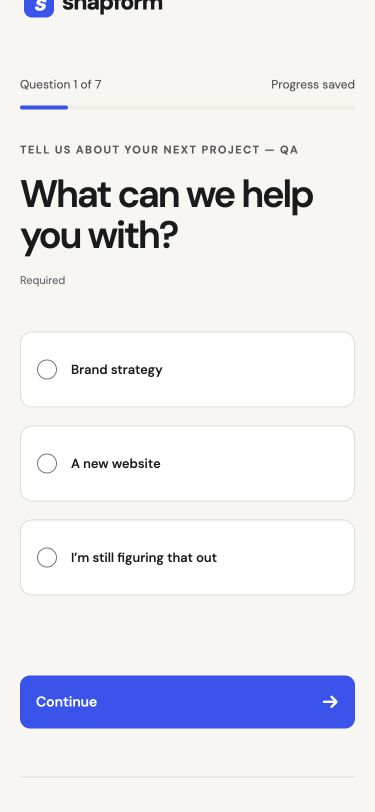
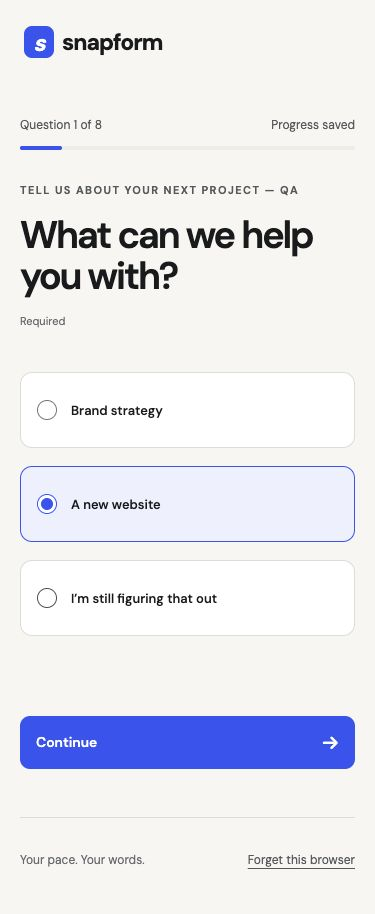
fix(intake): resolve saved-state conflicts with explicit confirmation

diff --git a/apps/web/src/features/intake/Collector.tsx b/apps/web/src/features/intake/Collector.tsx
@@ -12,7 +12,9 @@ export function Collector({ publicId }: { publicId: string }) {
     [stepId, setStepId] = useState(''),
     [review, setReview] = useState(false),
     [touched, setTouched] = useState<Set<string>>(new Set()),
-    [forget, setForget] = useState(false);
+    [confirmation, setConfirmation] = useState<'forget' | 'reload' | null>(
+      null,
+    );
   const heading = useRef<HTMLHeadingElement>(null),
     dialog = useRef<HTMLDialogElement>(null);
   const session = intake.progress?.record.session;
@@ -46,9 +48,9 @@ export function Collector({ publicId }: { publicId: string }) {
     }
   }, [status]);
   useEffect(() => {
-    if (forget) dialog.current?.showModal();
+    if (confirmation) dialog.current?.showModal();
     else dialog.current?.close();
-  }, [forget]);
+  }, [confirmation]);
   useEffect(() => {
     setReview(false);
     setStepId('');
@@ -135,6 +137,15 @@ export function Collector({ publicId }: { publicId: string }) {
                     Retry loading
                   </button>
                 )}
+                {['conflict', 'blocked'].includes(status || '') && !review && (
+                  <button
+                    type="button"
+                    className="intake-text-button"
+                    onClick={() => setReview(true)}
+                  >
+                    Review my answers
+                  </button>
+                )}
                 {['offline', 'conflict', 'blocked'].includes(status || '') && (
                   <button
                     type="button"
@@ -142,7 +153,9 @@ export function Collector({ publicId }: { publicId: string }) {
                     onClick={() =>
                       status === 'offline'
                         ? void intake.controller?.flush()
-                        : intake.retry()
+                        : status === 'conflict'
+                          ? setConfirmation('reload')
+                          : intake.retry()
                     }
                   >
                     {status === 'offline'
@@ -277,8 +290,9 @@ export function Collector({ publicId }: { publicId: string }) {
                     )}
                     {review && (
                       <p className="intake-description">
-                        Make any final changes below. Only the answers relevant
-                        to your path will be sent.
+                        {frozen
+                          ? 'Your retained answers are read-only. Resolve the saved-state issue before editing.'
+                          : 'Make any final changes below. Only answers relevant to your path will be sent.'}
                       </p>
                     )}
                     <fieldset
@@ -373,7 +387,7 @@ export function Collector({ publicId }: { publicId: string }) {
                   type="button"
                   className="intake-text-button"
                   disabled={intake.busy || status === 'saving'}
-                  onClick={() => setForget(true)}
+                  onClick={() => setConfirmation('forget')}
                 >
                   Forget this browser
                 </button>
@@ -385,31 +399,37 @@ export function Collector({ publicId }: { publicId: string }) {
       <dialog
         ref={dialog}
         className="intake-dialog"
-        onCancel={() => setForget(false)}
+        onCancel={() => setConfirmation(null)}
       >
-        <h2>Forget this browser’s copy?</h2>
+        <h2>
+          {confirmation === 'reload'
+            ? 'Use the saved response?'
+            : 'Forget this browser’s copy?'}
+        </h2>
         <p>
-          This removes recovery from this browser. It does not delete a response
-          already sent. Incomplete server progress remains for its recovery
-          period.
+          {confirmation === 'reload'
+            ? 'This replaces unsent answers in this browser with the saved response. Cancel to keep your browser’s answers.'
+            : 'This removes recovery from this browser. It does not delete answers already saved for this form.'}
         </p>
         <div className="intake-actions">
           <button
             type="button"
             className="button intake-secondary"
-            onClick={() => setForget(false)}
+            onClick={() => setConfirmation(null)}
           >
-            Keep it
+            {confirmation === 'reload' ? 'Keep my answers' : 'Keep it'}
           </button>
           <button
             type="button"
             className="button primary"
             onClick={() => {
-              setForget(false);
-              void intake.forget();
+              const action = confirmation;
+              setConfirmation(null);
+              if (action === 'reload') intake.useSaved();
+              else void intake.forget();
             }}
           >
-            Forget copy
+            {confirmation === 'reload' ? 'Use saved response' : 'Forget copy'}
           </button>
         </div>
       </dialog>

diff --git a/apps/web/src/features/intake/use-intake.ts b/apps/web/src/features/intake/use-intake.ts
@@ -1,3 +1,4 @@
+import { reconcileRecovery } from './reconcile';
 import { useEffect, useRef, useState } from 'react';
 import { useQueryClient } from '@tanstack/react-query';
 import type { PublicForm } from '@snapform/contracts/public-form';
@@ -27,6 +28,7 @@ export function useIntake(publicId: string) {
     [reload, setReload] = useState(0);
   const controller = useRef<IntakeProgress | null>(null);
   const lifecycle = useRef<Promise<unknown>>(Promise.resolve());
+  const replaceSaved = useRef(false);
   const actions = useRef<{
     start: ((token: string) => Promise<void>) | null;
     forget: (() => Promise<void>) | null;
@@ -74,6 +76,7 @@ export function useIntake(publicId: string) {
           await controller.current?.close();
           controller.current = null;
           await removeRecovery(publicId);
+          replaceSaved.current = false;
           if (active) setReload((value) => value + 1);
         } catch {
           if (active)
@@ -100,27 +103,21 @@ export function useIntake(publicId: string) {
           try {
             const session = await readIntakeRequest(publicId, record.identity);
             if (!active) return;
-            if (
-              record.session &&
-              record.session.versionId !== session.versionId
-            )
-              throw new Error('Saved form version changed.');
-            const local =
-              record.session && session.status === 'collecting'
-                ? { ...record, expiresAt: Date.parse(session.expiresAt) }
-                : {
-                    ...record,
-                    expiresAt: Date.parse(session.expiresAt),
-                    session,
-                    pending: null,
-                  };
-            const next = attach(local, session.answers);
-            if (
-              record.session &&
-              !record.pending &&
-              record.session.revision !== session.revision &&
-              session.status === 'collecting'
-            ) {
+            const recovery = reconcileRecovery(
+              record,
+              session,
+              replaceSaved.current,
+            );
+            if (replaceSaved.current) {
+              try {
+                await putRecovery(recovery.record);
+              } catch {
+                setStorageError(true);
+              }
+              replaceSaved.current = false;
+            }
+            const next = attach(recovery.record, session.answers);
+            if (recovery.conflict) {
               next.state.status = 'conflict';
               next.state.message =
                 'The saved response has newer changes. Your unsent answers remain here.';
@@ -282,5 +279,9 @@ export function useIntake(publicId: string) {
     start: (token: string) => actions.current.start?.(token),
     forget: () => actions.current.forget?.(),
     retry: () => setReload((value) => value + 1),
+    useSaved: () => {
+      replaceSaved.current = true;
+      setReload((value) => value + 1);
+    },
   };
 }

diff --git a/apps/web/src/features/intake/reconcile.test.ts b/apps/web/src/features/intake/reconcile.test.ts
@@ -1,0 +1,69 @@
+import { expect, it } from 'vitest';
+import { reconcileRecovery } from './reconcile';
+import { newRecovery } from './recovery';
+import { formFixture } from '../../../../../packages/contracts/test/form-fixture.ts';
+function fixture() {
+  const record = newRecovery(crypto.randomUUID()),
+    { definition, ids } = formFixture();
+  const session = {
+    id: record.identity.id,
+    publicId: record.publicId,
+    versionId: crypto.randomUUID(),
+    definition,
+    revision: 3,
+    answers: { [ids.budget]: { state: 'value' as const, value: '0' } },
+    expiresAt: new Date(record.expiresAt).toISOString(),
+    status: 'collecting' as const,
+  };
+  return { record: { ...record, session }, session, ids };
+}
+it('preserves local answers on a newer revision until replacement is explicitly selected', () => {
+  const { record, session, ids } = fixture(),
+    saved = {
+      ...session,
+      revision: 4,
+      answers: { [ids.budget]: { state: 'value' as const, value: '125' } },
+    };
+  const conflict = reconcileRecovery(record, saved, false);
+  expect(conflict.conflict).toBe(true);
+  expect(conflict.record.session?.answers[ids.budget]).toEqual({
+    state: 'value',
+    value: '0',
+  });
+  const selected = reconcileRecovery(record, saved, true);
+  expect(selected.conflict).toBe(false);
+  expect(selected.record.session?.revision).toBe(4);
+  expect(selected.record.session?.answers[ids.budget]).toEqual({
+    state: 'value',
+    value: '125',
+  });
+  expect(selected.record.identity).toEqual(record.identity);
+});
+it('retains uncertain operations and refuses another pinned identity/version', () => {
+  const { record, session } = fixture();
+  const pending = {
+    kind: 'save' as const,
+    input: {
+      operationId: crypto.randomUUID(),
+      expectedRevision: 3,
+      answers: {},
+    },
+  };
+  expect(
+    reconcileRecovery(
+      { ...record, pending },
+      { ...session, revision: 4 },
+      false,
+    ).record.pending,
+  ).toEqual(pending);
+  expect(() =>
+    reconcileRecovery(
+      record,
+      { ...session, versionId: crypto.randomUUID() },
+      true,
+    ),
+  ).toThrow();
+  expect(() =>
+    reconcileRecovery(record, { ...session, id: crypto.randomUUID() }, true),
+  ).toThrow();
+});

diff --git a/apps/web/src/features/intake/reconcile.ts b/apps/web/src/features/intake/reconcile.ts
@@ -1,0 +1,35 @@
+import type { IntakeRecovery } from '@snapform/contracts/intake-progress';
+import type { IntakeSession } from '@snapform/contracts/intake';
+export function reconcileRecovery(
+  record: IntakeRecovery,
+  session: IntakeSession,
+  replace: boolean,
+) {
+  if (
+    record.publicId !== session.publicId ||
+    record.identity.id !== session.id ||
+    (record.session && record.session.versionId !== session.versionId)
+  )
+    throw new Error('Saved form identity changed.');
+  const keep = Boolean(
+    record.session && session.status === 'collecting' && !replace,
+  );
+  return {
+    record:
+      keep && record.session
+        ? {
+            ...record,
+            expiresAt: Date.parse(session.expiresAt),
+            session: { ...record.session, expiresAt: session.expiresAt },
+          }
+        : {
+            ...record,
+            session,
+            pending: null,
+            expiresAt: Date.parse(session.expiresAt),
+          },
+    conflict: Boolean(
+      keep && !record.pending && record.session?.revision !== session.revision,
+    ),
+  };
+}

diff --git a/docs/development/0042-collector-conflict-resolution.md b/docs/development/0042-collector-conflict-resolution.md
@@ -1,0 +1,9 @@
+# Explicit collector conflict resolution
+
+29 October 2026. A newer saved response continues to block writes while preserving the browser buffer. “Review my answers” exposes the retained fields read-only. “Reload saved response” now asks explicitly before replacing that browser copy. Cancel keeps the local answers; confirmation fetches the current saved state, preserves the session identity/version and resumes editing at its actual revision. No server answer is overwritten by accepting the saved copy. Uncertain operations remain intact until resolved or explicitly replaced.
+
+Two behavioral tests were written first and failed on the absent reconciliation module. They pass for preservation versus explicit replacement, pending-operation retention and refusal of swapped identities/versions. The complete 175-unit suite, types/lint/formatting, web build and unchanged bundle limits pass. Current emitted first-party JS is 199.52 KiB gzip, CSS 6.91 KiB and primary font 36.07 KiB. No dependency was added. The preceding full Worker/database/auth/SSR/reload evidence remains in 0041; backend code was not changed by this fix.
+
+Real browser reproduction: an operator advanced only the dedicated live QA session from revision 3 to 4 with a distinct synthetic budget. Reopening preserved the local zero and showed a conflict. The first reload looped without resolving it. With the fix, all retained answers were inspectable, Cancel preserved zero, and explicit acceptance loaded the saved 125. A subsequent edit to 150 saved at revision 5, confirmed by an exact scoped database read. The in-app reload was held by the existing unsaved-state guard, so a fresh tab recovered the same stored buffer for the new-build test. No warning bypass, credential inspection or customer-data edit was needed.
+
+The final fresh browser console has no warnings/errors. At 375 px, the resolved form has no horizontal overflow and step navigation restores the header to the top. Evidence 38 shows the saved rebased edit; evidence 35 is refreshed after the scroll correction. Viewport overrides were reset. Market V1 and hosted performance/security/accessibility/business gates remain incomplete.
